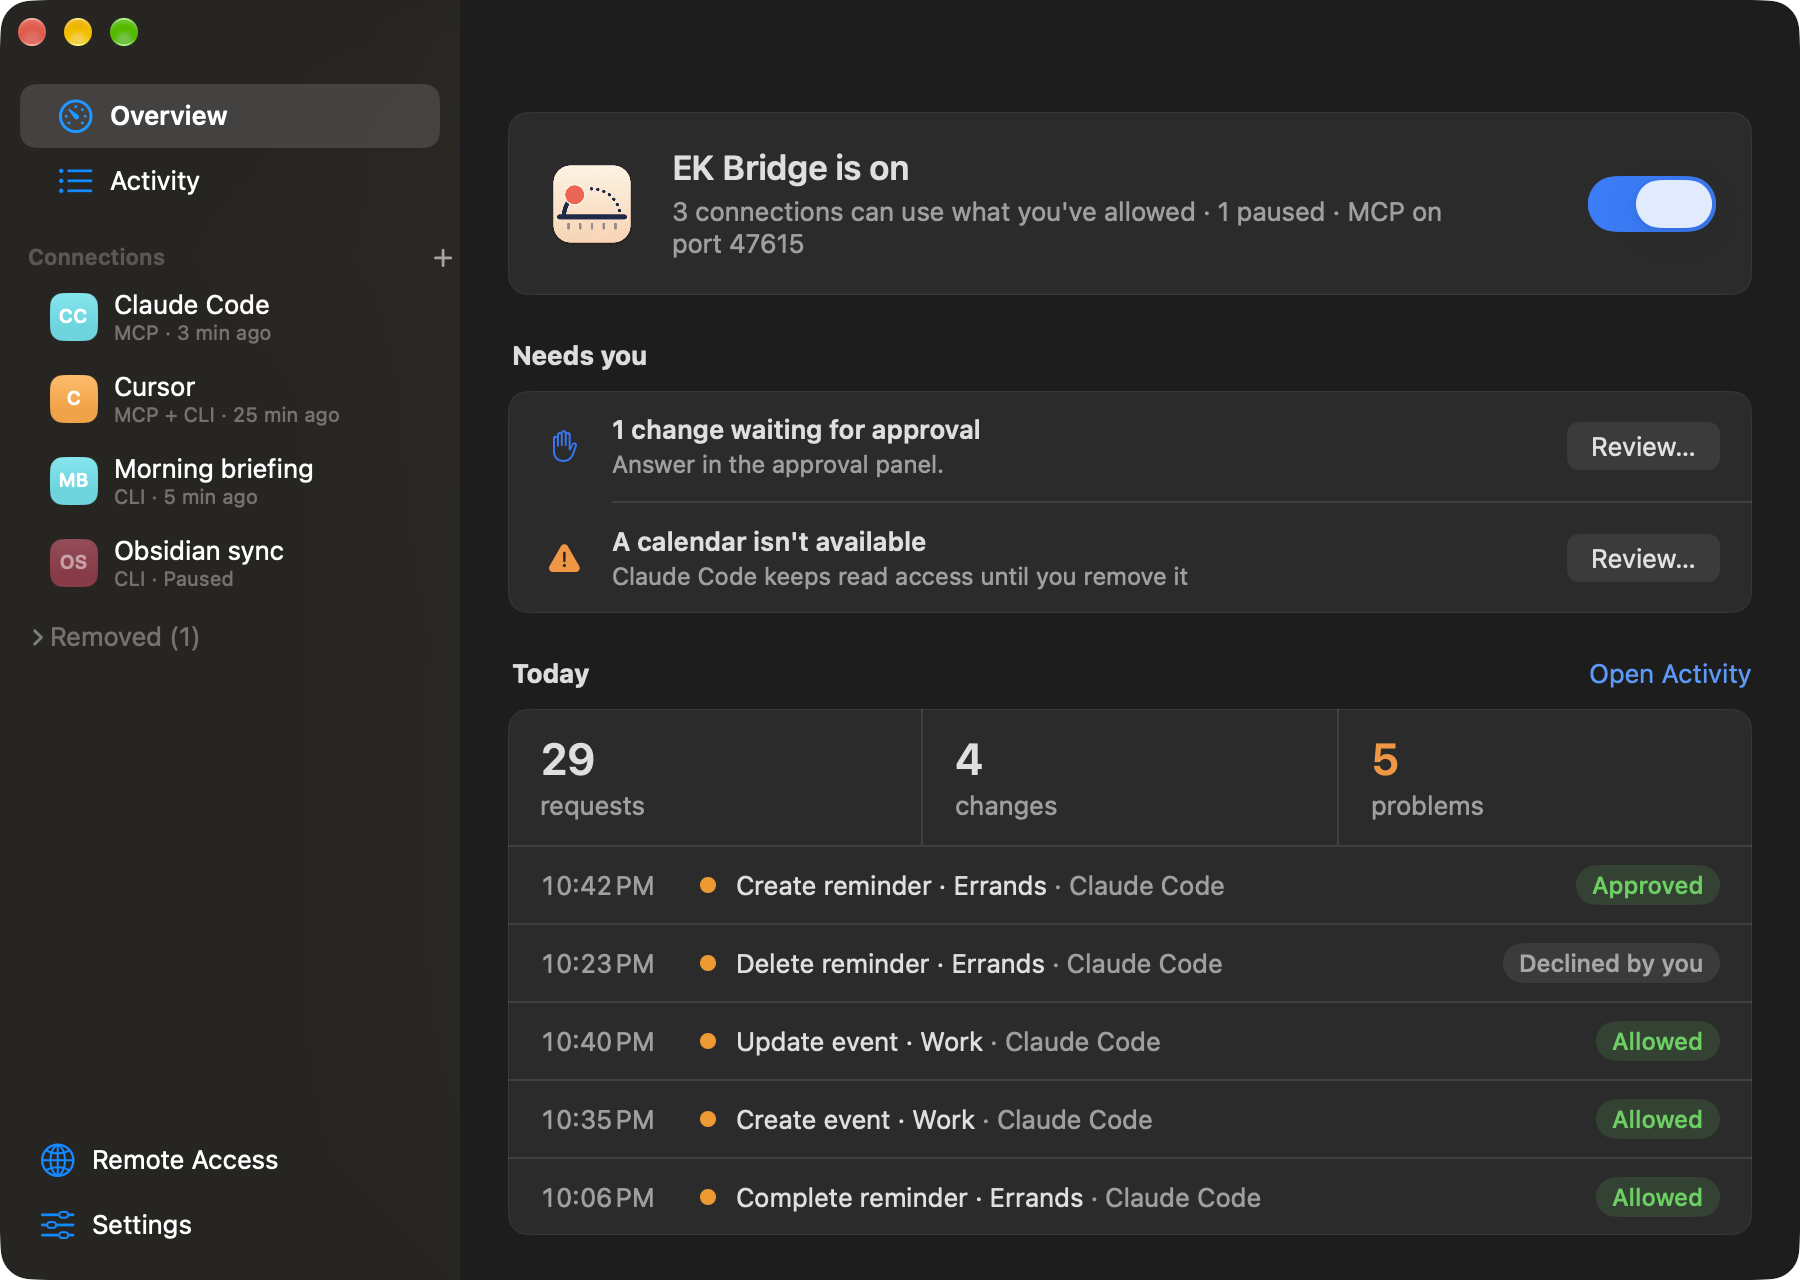
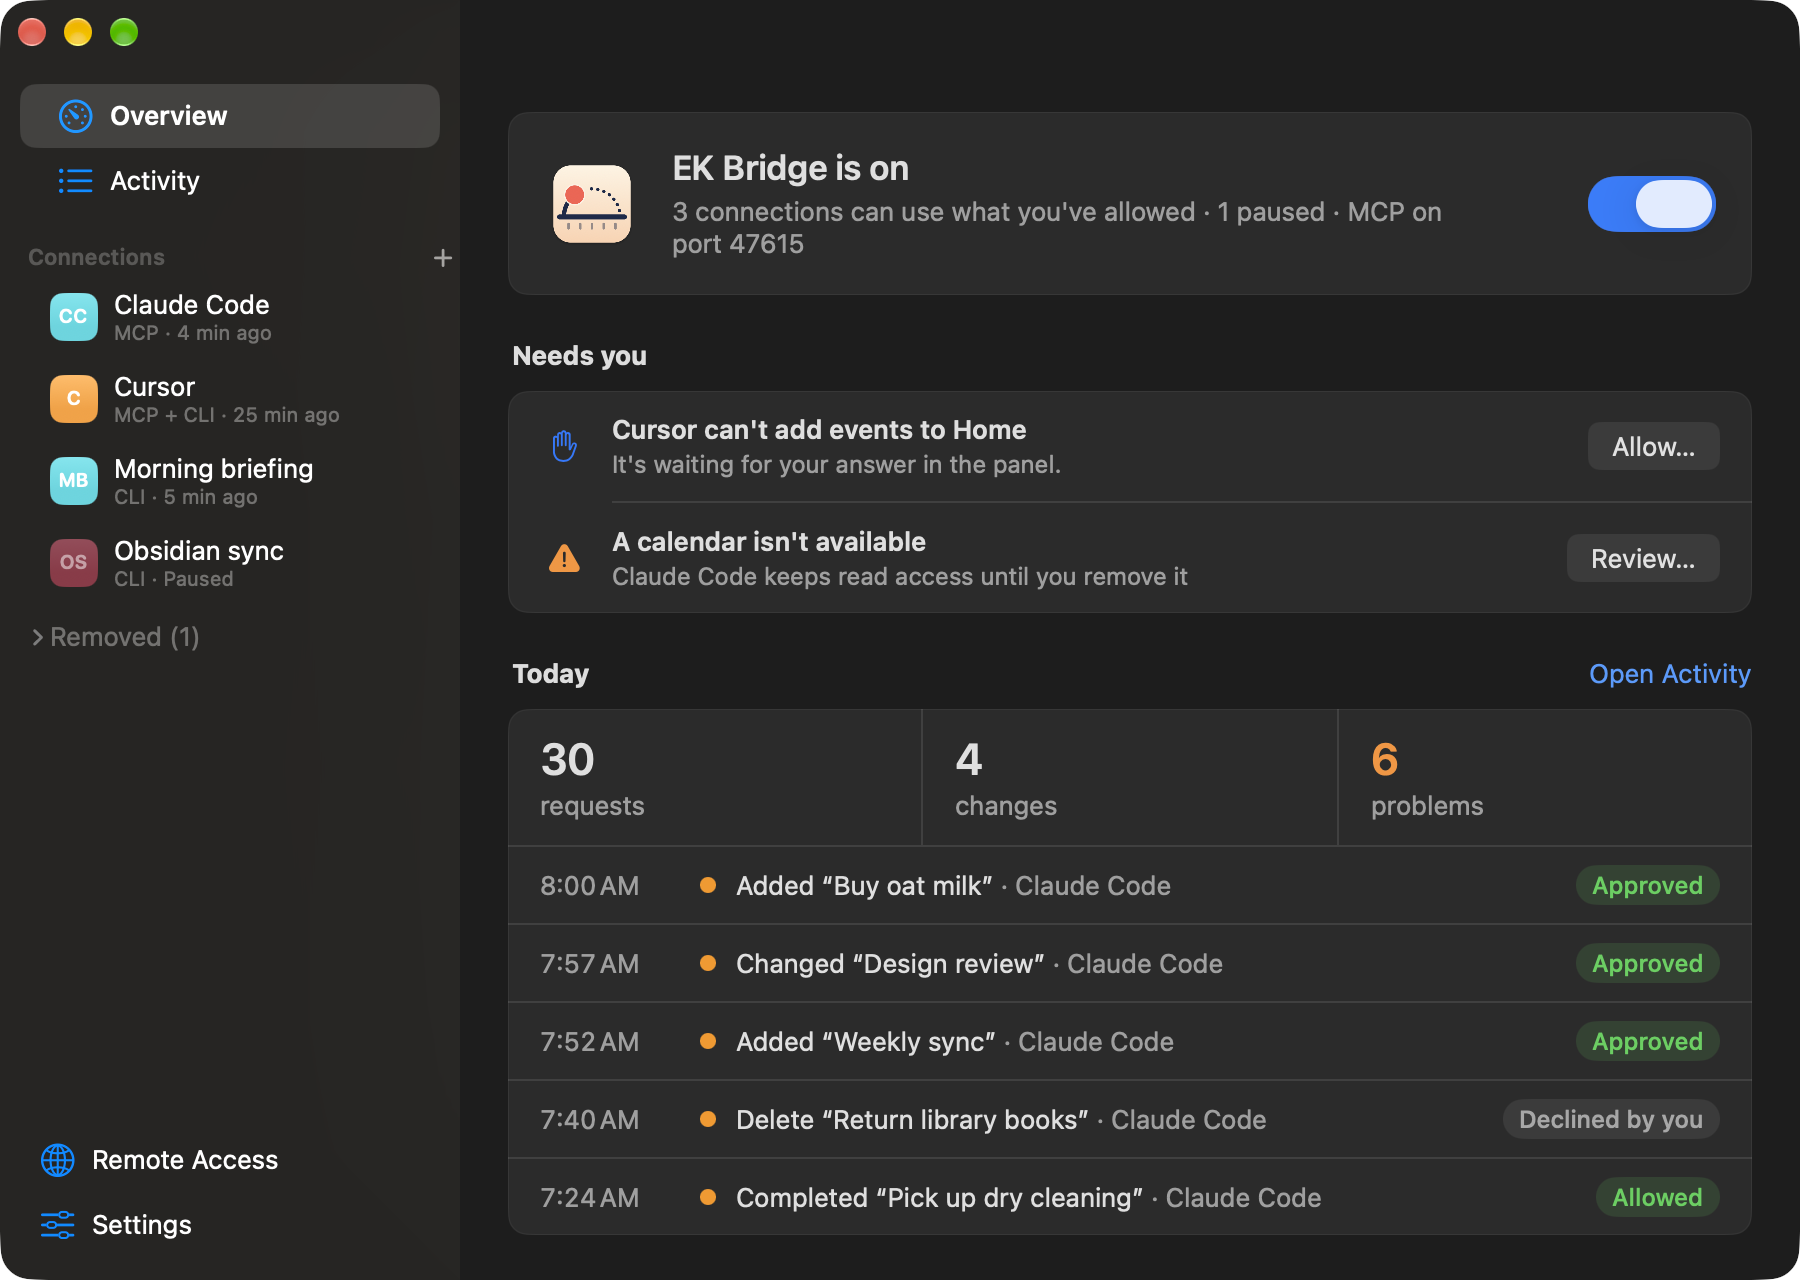
Prepare 0.10.0
Info.plist 0.10.0 (build 13), server.json, and the CHANGELOG [0.10.0]
release notes. docs/images re-shot from the final snapshots: the two new
README images (activity, access-request) that #34's README already links,
and the refreshed overview, access, client, connect-agent, client-cloud,
client-paused, remote-settings, setup and approval-panel. The social
preview is re-rendered from the new Overview.

diff --git a/CHANGELOG.md b/CHANGELOG.md
@@ -6,6 +6,10 @@ Versions up to 0.7.0 were built and used from source only; none was published as
 
 ## [Unreleased]
 
+## [0.10.0] - 2026-10-09
+
+A trust release. Activity says what each agent changed, by name (*Moved “Design review”*), looked up when you open it, with **Show in Calendar**; changes and problems are kept for 90 days. When an agent is refused only because it lacks one action on a calendar it can already read, EK Bridge asks you instead (**Allow Once**, **Always Allow**, **Not Now**). Notifications can tell you when a change wasn't made because nobody answered, Overview and the menu name the items that changed, and Codex and Gemini CLI get one-click setup next to their copyable setups. Agents need no changes; when you don't allow an access request, the `forbidden` message says so. Activity moves to its own file on the first launch. The client registry stays at **version 4** with an empty Activity list, so going back to 0.9.0 or 0.8.x means installing its DMG over this one: connections, access and settings are kept, and that version starts a new Activity list, which 0.10 imports again later.
+
 ### Added
 
 - Activity says what changed: a **Change** column (*Added event*, *Moved event*, *Completed*) and an **Item** column with the event's or reminder's name, looked up in Calendar or Reminders when shown (only its ID is stored; a deleted one shows **Deleted item**). Rows are grouped under **Today**, **Yesterday** and dates, there's a **Changes** filter next to All and Problems, and the details below the table show the item with **Show in Calendar** / **Show in Reminders**. A refused move now says when it was the destination that lacked Create.
